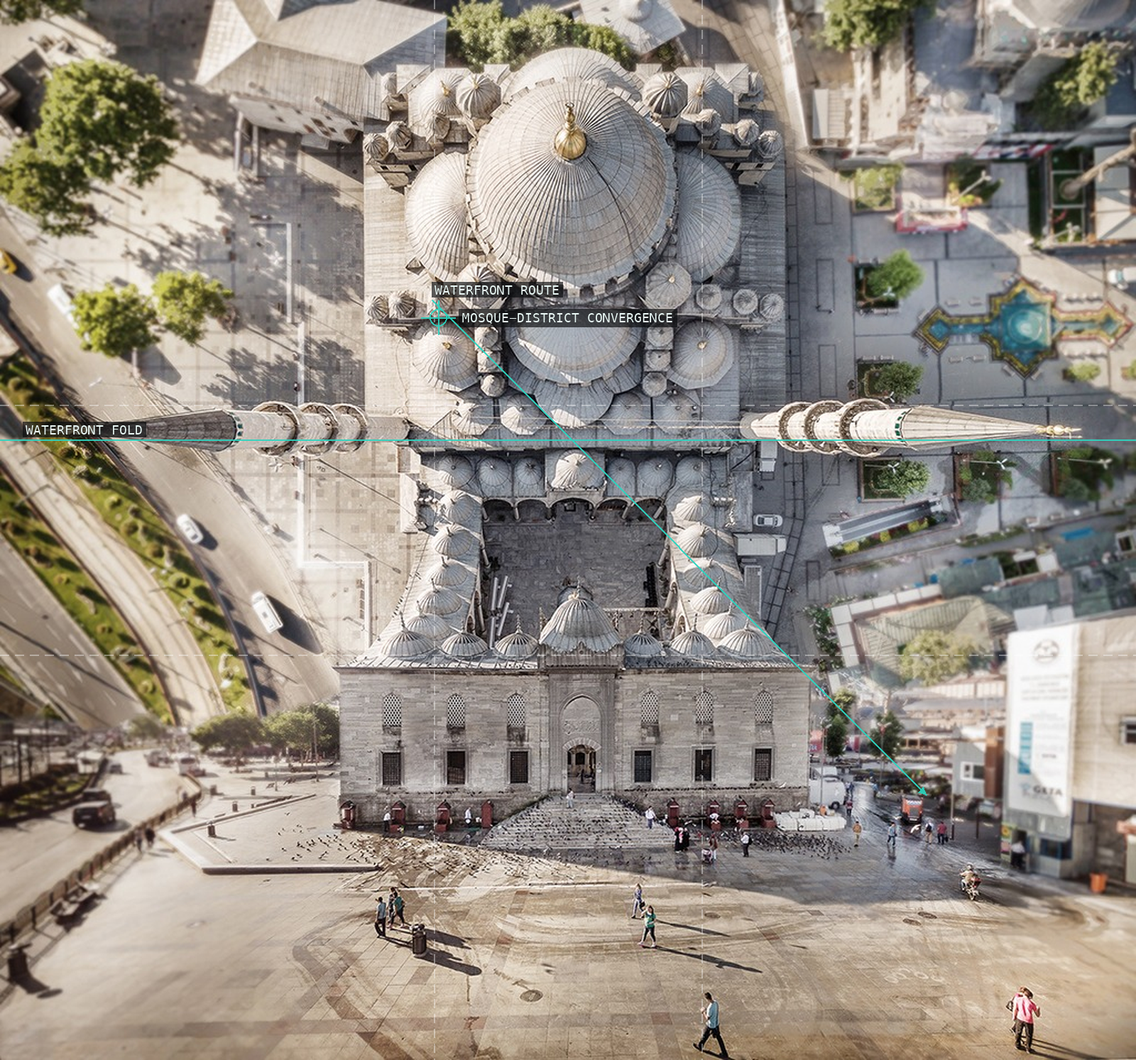
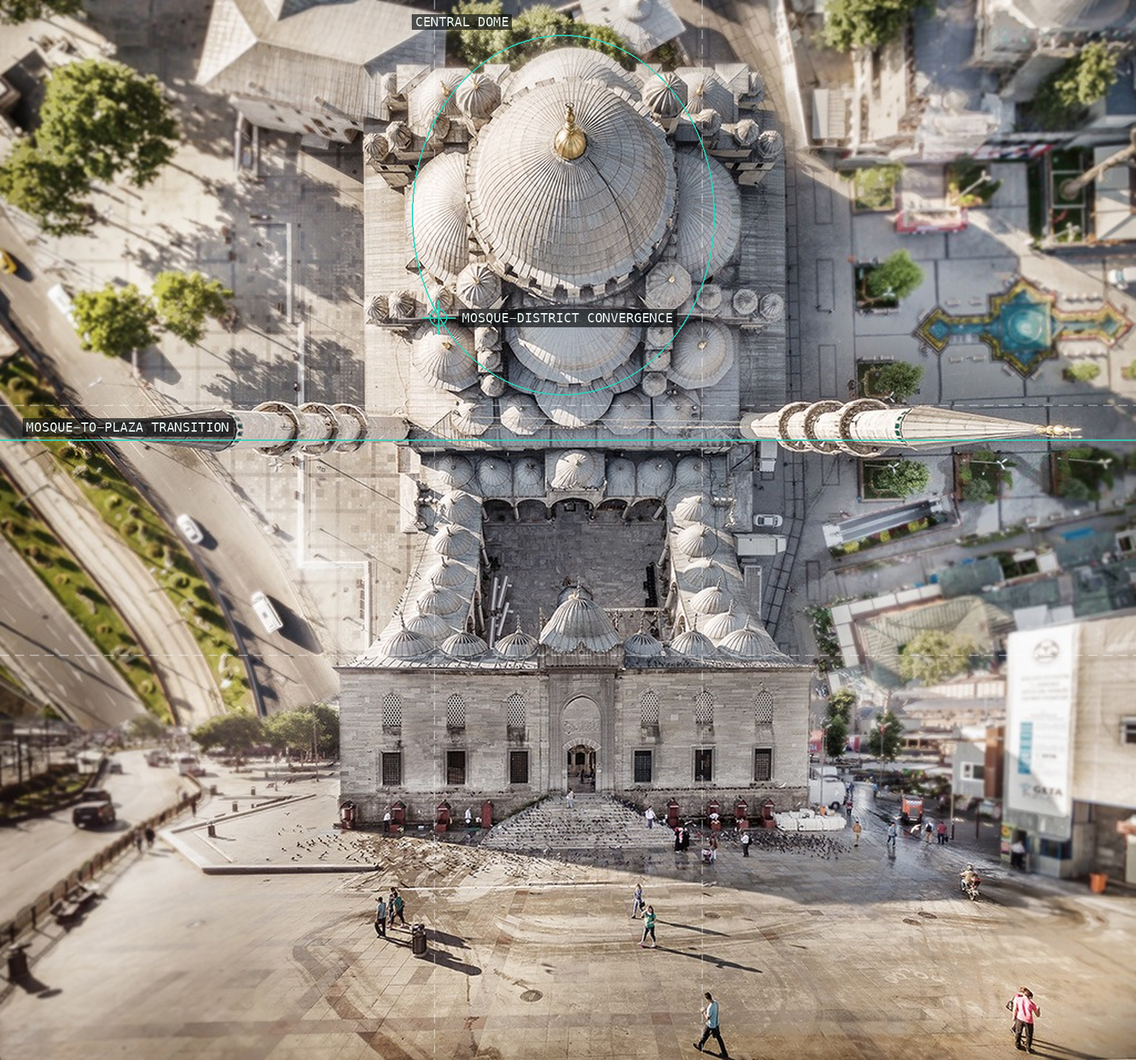
resolve critique: aydin-buyuktas

Changed region(s): [[0.0312, 0.3697, 0.2188, 0.4313], [0.375, 0.2465, 0.5, 0.3081], [0.3438, 0.0, 0.4688, 0.0308]]

diff --git a/content/aydin-buyuktas/proofs/index.html b/content/aydin-buyuktas/proofs/index.html
@@ -21,17 +21,50 @@
 <h1><span class="c">/* </span>aydin-buyuktas - proofs<span class="c"> */</span></h1>
 <p class="sub">11 plates. Deterministic overlays rendered by the composition-analysis skill.</p>
 <div class="grid">
-<figure><img src="01-sultanahmet.png" alt="01-sultanahmet" loading="lazy"><figcaption><span class="id">01-sultanahmet</span><br>Mosque precinct, fold transition, and courtyard convergence.</figcaption></figure>
-<figure><img src="02-sali-pazari.png" alt="02-sali-pazari" loading="lazy"><figcaption><span class="id">02-sali-pazari</span><br>Market lattice and its diagonal aisle.</figcaption></figure>
-<figure><img src="03-maltepe-stadi.png" alt="03-maltepe-stadi" loading="lazy"><figcaption><span class="id">03-maltepe-stadi</span><br>Stadium bowl and curving track edge form a legible aerial field.</figcaption></figure>
-<figure><img src="04-kurbagli-dere.png" alt="04-kurbagli-dere" loading="lazy"><figcaption><span class="id">04-kurbagli-dere</span><br>Creek-side route across a dark urban field.</figcaption></figure>
-<figure><img src="05-kaykaypist.png" alt="05-kaykaypist" loading="lazy"><figcaption><span class="id">05-kaykaypist</span><br>Skate ramps rhyme with the larger fold.</figcaption></figure>
-<figure><img src="06-galata-bridge.png" alt="06-galata-bridge" loading="lazy"><figcaption><span class="id">06-galata-bridge</span><br>Bridge route joins water, shore, and city.</figcaption></figure>
-<figure><img src="07-fenerbahce-stadium.png" alt="07-fenerbahce-stadium" loading="lazy"><figcaption><span class="id">07-fenerbahce-stadium</span><br>Centered pitch counters the lifted city.</figcaption></figure>
-<figure><img src="08-demirciler.png" alt="08-demirciler" loading="lazy"><figcaption><span class="id">08-demirciler</span><br>Roof texture makes the turn feel continuous.</figcaption></figure>
-<figure><img src="09-basibuyuk.png" alt="09-basibuyuk" loading="lazy"><figcaption><span class="id">09-basibuyuk</span><br>Diagonal road preserves a map-like route.</figcaption></figure>
-<figure><img src="10-grand-bazaar.png" alt="10-grand-bazaar" loading="lazy"><figcaption><span class="id">10-grand-bazaar</span><br>Roof grid opens into an urban field.</figcaption></figure>
-<figure><img src="11-yeni-cami.png" alt="11-yeni-cami" loading="lazy"><figcaption><span class="id">11-yeni-cami</span><br>Mosque, waterfront, and folded district.</figcaption></figure>
+<figure>
+  <img src="01-sultanahmet.png" alt="01-sultanahmet" loading="lazy">
+  <figcaption><span class="id">01-sultanahmet</span><br>The mosque precinct is held between an aerial carpet and an upright civic wall.</figcaption>
+</figure>
+<figure>
+  <img src="02-sali-pazari.png" alt="02-sali-pazari" loading="lazy">
+  <figcaption><span class="id">02-sali-pazari</span><br>The market lattice remains legible as it crosses the picture&#x27;s impossible change of orientation.</figcaption>
+</figure>
+<figure>
+  <img src="03-maltepe-stadi.png" alt="03-maltepe-stadi" loading="lazy">
+  <figcaption><span class="id">03-maltepe-stadi</span><br>The stable stadium bowl turns the full aerial frame into an unusually legible geometric field.</figcaption>
+</figure>
+<figure>
+  <img src="04-kurbagli-dere.png" alt="04-kurbagli-dere" loading="lazy">
+  <figcaption><span class="id">04-kurbagli-dere</span><br>A winding watercourse supplies a directional contour across the folded city surface.</figcaption>
+</figure>
+<figure>
+  <img src="05-kaykaypist.png" alt="05-kaykaypist" loading="lazy">
+  <figcaption><span class="id">05-kaykaypist</span><br>The skate park&#x27;s small arcs rhyme with the image&#x27;s larger constructed bend.</figcaption>
+</figure>
+<figure>
+  <img src="06-galata-bridge.png" alt="06-galata-bridge" loading="lazy">
+  <figcaption><span class="id">06-galata-bridge</span><br>The bridge deck cuts vertically through the water and fixes the frame&#x27;s two shorelines.</figcaption>
+</figure>
+<figure>
+  <img src="07-fenerbahce-stadium.png" alt="07-fenerbahce-stadium" loading="lazy">
+  <figcaption><span class="id">07-fenerbahce-stadium</span><br>The field&#x27;s centered geometry is a stable counterweight to the city surface rising beyond it.</figcaption>
+</figure>
+<figure>
+  <img src="08-demirciler.png" alt="08-demirciler" loading="lazy">
+  <figcaption><span class="id">08-demirciler</span><br>Dense roofs, lanes, and a central street turn the aerial city into a coherent material field.</figcaption>
+</figure>
+<figure>
+  <img src="09-basibuyuk.png" alt="09-basibuyuk" loading="lazy">
+  <figcaption><span class="id">09-basibuyuk</span><br>The broad cross-town carriageway keeps the aerial interchange readable as a connected route.</figcaption>
+</figure>
+<figure>
+  <img src="10-grand-bazaar.png" alt="10-grand-bazaar" loading="lazy">
+  <figcaption><span class="id">10-grand-bazaar</span><br>The bazaar roof makes foreground enclosure and urban expanse read as one directional system.</figcaption>
+</figure>
+<figure>
+  <img src="11-yeni-cami.png" alt="11-yeni-cami" loading="lazy">
+  <figcaption><span class="id">11-yeni-cami</span><br>The central dome and plaza keep the mosque legible while the district shifts between aerial and frontal views.</figcaption>
+</figure>
 </div>
 </body>
 </html>

diff --git a/content/aydin-buyuktas/critique.md b/content/aydin-buyuktas/critique.md
@@ -1,4 +1,4 @@
-verdict: revise
+verdict: resolved
 
 ## Critique round — 2026-07-24
 
@@ -13,3 +13,18 @@ verdict: revise
 ### Advisory (non-blocking)
 
 - The `ramp crest` anchor in **05-kaykaypist** sits on the top image boundary. It remains a plausible local feature, but moving it slightly into the visible crest would make the teaching cue easier to read.
+
+## Resolution — 2026-07-24
+
+Resolved all required items from the 2026-07-24 critique round. `06-galata-bridge`
+now marks the central bridge deck and names the measured upper shoreline transition;
+`09-basibuyuk` traces the visible cross-town carriageway rather than the green
+infield; and `11-yeni-cami` removes the unsupported waterfront route in favor of
+the visible central dome and mosque-to-plaza transition. The corresponding plate
+captions and prose now make the same claims as their overlays. Each refreshed proof
+received a clean visual pass and scores 100/100 against the deterministic analyzer.
+
+Re-verified the full critique history: the only prior/current critique round is
+**2026-07-24**, and all three of its required corrections hold in the current
+overlays, proofs, and byte-identical chapter copies. The advisory `05-kaykaypist`
+item was left unchanged because it is non-blocking.
